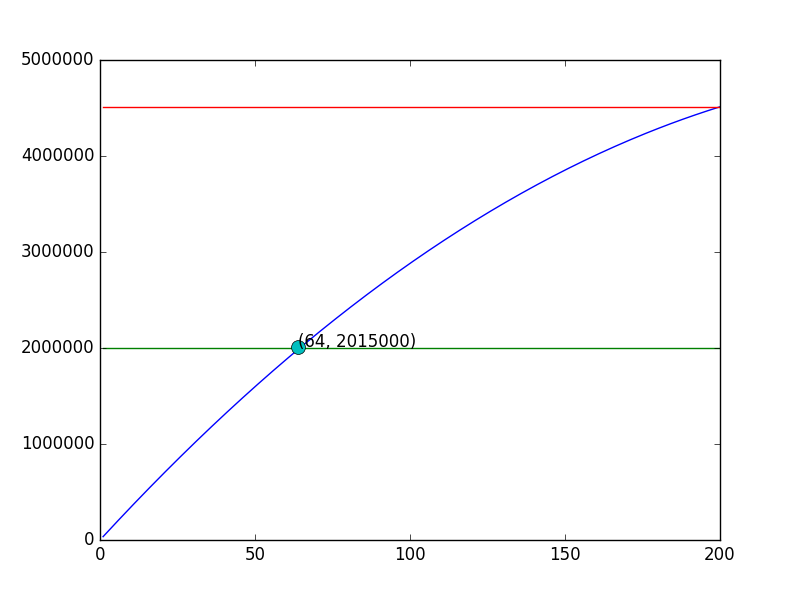
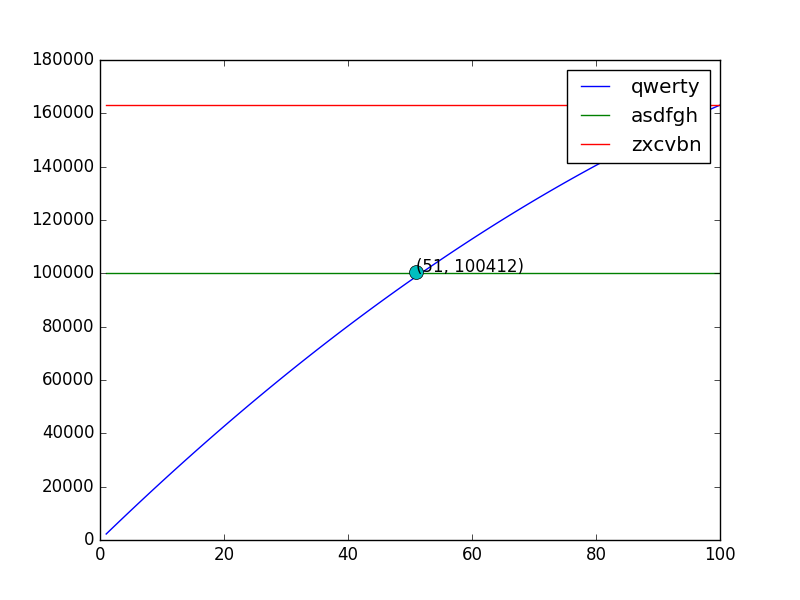
Add files via upload

diff --git a/data/revolving.php b/data/revolving.php
@@ -4,7 +4,7 @@
 <html lang="ja">
  <head>
    <meta charset="utf-8">
-   <link rel="stylesheet" href="./home.css">
+   <link rel="stylesheet" href="./../../home.css">
    <title>HallowinGhost</title>
     <link rel="icon" href="ghost.png"><!-- タイトルにアイコンを設定 -->
     <link rel="apple-touch-icon" href="icon.png"><!-- iphone のアイコンを設定 -->
@@ -12,37 +12,64 @@
  <body>
     <div class="main">
             <br>
+            <h1>リボ払い</h1>
             <br>
-            <br>
-            <br>
+            ※ 1ヶ月を30日(1年を360日)として計算しています
             <br>
             <form action="./code/generator.php" method="post">
               <!-- <input type="textarea" name="confirm" value=""> -->
-              <select name="confirm1" class="form">
+              <label for="confirm1"><h3>借入額</h3></label><br>
+              <select name="confirm0" class="form">
                   <!-- <option value="blue">青</option> -->
-                  <option value="10000000">10000000</option>
-                  <option value="20000000">20000000</option>
-                  <option value="40000000">40000000</option>
-                  <option value="1000000">1000000</option>
-                  <option value="2000000">2000000</option>
-              </select>
-              <select name="confirm2" class="form">
-                  <!-- <option value="blue">青</option> -->
-                  <option value="10000">10000</option>
-                  <option value="20000">20000</option>
-                  <option value="40000">40000</option>
-                  <option value="100000">100000</option>
-                  <option value="200000">200000</option>
+                  <option value="0.10">10%</option>
+                  <option value="0.11">11%</option>
+                  <option value="0.12">12%</option>
+                  <option value="0.13">13%</option>
+                  <option value="0.14">14%</option>
+                  <option value="0.15">15%</option>
+                  <option value="0.16">16%</option>
+                  <option value="0.17">17%</option>
+                  <option value="0.18">18%</option>
+                  <option value="0.19">19%</option>
+                  <option value="0.20">20%</option>
+                  <option value="0.331">トイチ</option>
+                  <option value="0.2197">トサン</option>
+                  <option value="0.3375">トゴ</option>
               </select>
 
+              <label for="confirm1"><h3>借入額</h3></label><br>
+              <select name="confirm1" class="form">
+                  <!-- <option value="blue">青</option> -->
+                  <option value="10000000">10,000,000</option>
+                  <option value="20000000">20,000,000</option>
+                  <option value="30000000">30,000,000</option>
+                  <option value="40000000">40,000,000</option>
+                  <option value="50000000">50,000,000</option>
+                  <option value="60000000">60,000,000</option>
+                  <option value="70000000">70,000,000</option>
+                  <option value="80000000">80,000,000</option>
+                  <option value="90000000">90,000,000</option>
+                  <option value="100000000">100,000,000</option>
+              </select>
+
+
+              <label for="confirm2"><h3>月返済額</h3></label><br>
+              <select name="confirm2" class="form">
+                  <!-- <option value="blue">青</option> -->
+                  <option value="100000">100,000</option>
+                  <option value="200000">200,000</option>
+                  <option value="300000">300,000</option>
+                  <option value="400000">400,000</option>
+                  <option value="500000">500,000</option>
+                  <option value="600000">600,000</option>
+                  <option value="700000">700,000</option>
+                  <option value="800000">800,000</option>
+                  <option value="900000">900,000</option>
+                  <option value="1000000">1,000,000</option>
+              </select>
               <input type="submit" value="-----" class="form">
             </form>
-            <br>
-            <br>
-            <br>
-            <br>
-            <br>
-            <br>
+
             <br>
             <br>
 

diff --git a/data/code/revolving.py b/data/code/revolving.py
@@ -1,6 +1,19 @@
 import numpy as np
 import matplotlib.pyplot as plt
 import sys
+import graph_maker
+
+
+
+
+
+
+
+
+
+
+
+
 
 
 
@@ -36,8 +49,8 @@ print("<th>" + str("借入額") + "</th>")
 print("<th>" + str("年利") + "</th>")
 print("</tr>")
 print("<tr>")
-print("<td align='center'>" + str(zandaka) + "</th>")
-print("<td align='center'>" + str(nenritsu) + "</th>")
+print("<td align='center'>" + format(zandaka, ',') + "</th>")
+print("<td align='center'>" + format(nenritsu, ',') + "</th>")
 print("</tr>")
 print("<tr>")
 print("<th>" + str("Xヶ月目") + "</th>")
@@ -56,10 +69,10 @@ for i in range(month+1):
     zandaka = zandaka - hensai
     # print("Hello !!!!!!!!")
     print("<tr>")
-    print("<td align='center'>" + str(i+1) + "</td>")
-    print("<td align='center'>" + str(hensai) + "</td>")
-    print("<td align='center'>" + str(tesuu) + "</td>")
-    print("<td align='center'>" + str(zandaka) + "</td>")
+    print("<td align='center'>" + format((i+1), ',') + "</td>")
+    print("<td align='center'>" + format(hensai, ',') + "</td>")
+    print("<td align='center'>" + format(tesuu, ',') + "</td>")
+    print("<td align='center'>" + format(zandaka, ',') + "</td>")
     print("</tr>")
 
     # print("[MONTH" + str(i+1) + " : " + str(hensai) + "] [CHARGE : " + str(tesuu) + "] [BALANCE : " + str(zandaka) + "] " + "<br><br>")
@@ -84,45 +97,39 @@ print("<th>" + str("総支払額") + "<br>")
 # print("合計: " + str(goukei))
 # print(total)
 x = total_tesuu
-y = total
+normal_graph = total
 z = total_hensai
 q = wariai
-w = [zandaka_0 for j in range(len(x))]
-r = [total[len(total)-1] for d in range(len(x))]
+zandaka_graph = [zandaka_0 for j in range(len(x))]
+total_graph = [total[len(total)-1] for d in range(len(x))]
 yoko = [(1+i) for i in range(len(x))]
 # tate = [1 for i in range(month)]
-
+# print(yoko)
+# print(x)
 
 print("<th>" + str("総手数料") + "</th>")
 print("</tr>")
 print("<tr>")
-print("<td align='center'>" + str(goukei) + "</td>")
-print("<td align='center'>" + str(total[len(total)-1] - zandaka_0) + "</td>")
+print("<td align='center'>" + format(goukei, ',') + "</td>")
+print("<td align='center'>" + format((total[len(total)-1] - zandaka_0), ',') + "</td>")
 print("</tr>")
 print("</table>")
 
 # print("TOTAL CHARGE: " + str(total[len(total)-1] - zandaka_0))
 
-fig = plt.figure()
+# fig = plt.figure()
 # plt.bar(yoko, y) # この場合のplot関数の第一引数xは、x軸に対応し、第二引数のyがy軸にあたります。
-plt.plot(yoko, y) # この場合のplot関数の第一引数xは、x軸に対応し、第二引数のyがy軸にあたります。
-plt.plot(yoko, w)
-plt.plot(yoko, r)
-# plt.plot(64, tate)
-# plt.plot(tate)
+# plt.savefig("./img.png")
+# fig = plt.figure()
 
-print(total)
-for i in range(len(total)):
-    if (total[i] > zandaka_0):
-        print(total[i])
-        plt.plot(i, total[i], marker='o', markersize=10)
-        plt.text(i, total[i], "(" + str(i) + ", " + str(total[i]) + ")")
-        # plt.scatter(i, total[i], c='k', s=5)
-        break
+aaa = graph_maker.graph_maker_class()
+bbb = aaa.graph_maker(yoko, total, zandaka_0 ,normal_graph, zandaka_graph, total_graph)
 
 
-fig.savefig("./img.png")
 print("<img src='./img.png'>")
+
+
+
+# print("<img src='./img.png'>")
 # plt.plot(y, label="fdsafdas") # この場合のplot関数の第一引数xは、x軸に対応し、第二引数のyがy軸にあたります。
-plt.legend()
 # plt.show()

diff --git a/data/code/graph_maker.py b/data/code/graph_maker.py
@@ -1,0 +1,27 @@
+import matplotlib.pyplot as plt
+
+
+class graph_maker_class():
+    def graph_maker(self, yoko, total, zandaka_0, normal_graph, zandaka_graph, total_graph):
+
+
+        print("@@@ @@@ @@@ @@@")
+        plt.plot(yoko, normal_graph, label='qwerty')   # 普通のグラフ
+        plt.plot(yoko, zandaka_graph, label='asdfgh')   # 借入額で横一線
+        plt.plot(yoko, total_graph, label='zxcvbn')   # 最終的な総支払額で横一線
+        # plt.plot(64, tate)
+        # plt.plot(tate)
+
+        print(total)
+        for i in range(len(total)):
+            if (total[i] > zandaka_0):
+                print(total[i])
+                plt.plot(i, total[i], marker='o', markersize=10)
+                plt.text(i, total[i], "(" + str(i) + ", " + str(total[i]) + ")")
+                # plt.scatter(i, total[i], c='k', s=5)
+                break
+
+
+        plt.legend()
+        plt.savefig("./img.png")
+        # plt.show()

diff --git a/data/code/generator.php b/data/code/generator.php
@@ -5,6 +5,7 @@
   // $hensai = $_POST["confirm2"]
 
   echo shell_exec("export LANG=ja_JP.UTF-8; python3 revolving.py ".$_POST["confirm1"]." ".$_POST["confirm2"]);
+  // echo shell_exec("export LANG=ja_JP.UTF-8; python3 graph_maker.py ".$_POST["confirm1"]." ".$_POST["confirm2"]);
 
   // if ($_POST["confirm"]=="10000"){
   //   echo shell_exec("export LANG=ja_JP.UTF-8; python3 revolving.py 10000");
